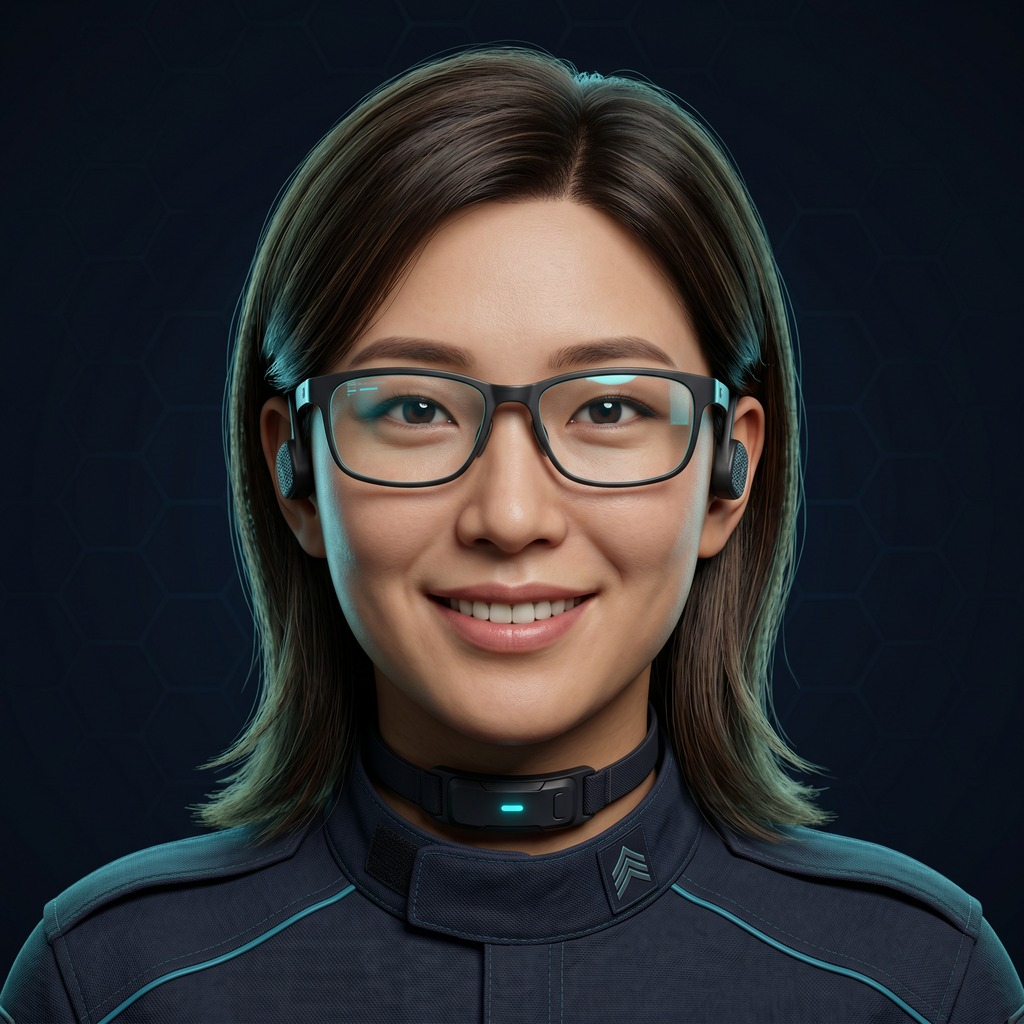
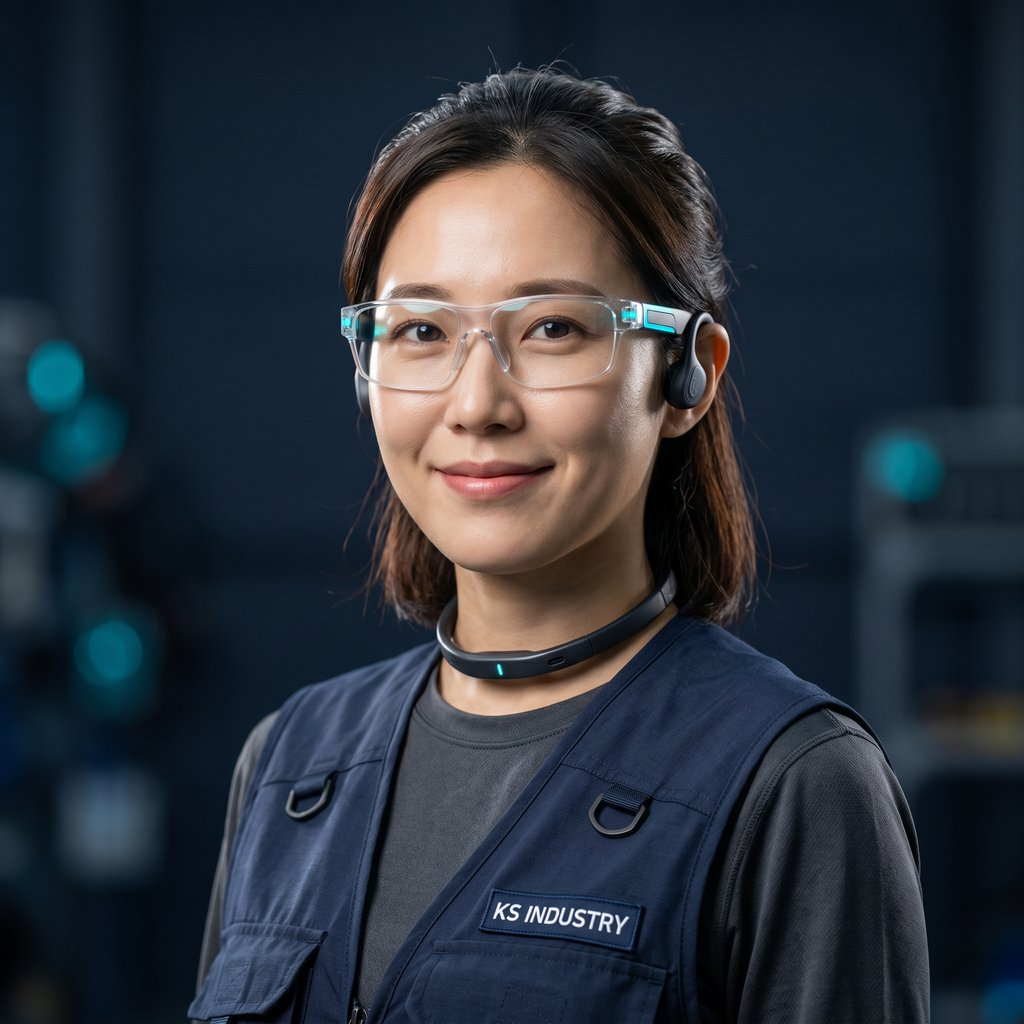
feat(hero): 플로팅 태그 세로 정렬, MRO 타이틀 + sLM 부제, 간격 확대, iframe 스케일, 아바타 v2
- 폰 화면을 가리던 4개 플로팅 태그(Voice+STT/Acoustic AI/Closed-Network/Agent Workflow)를
  데스크톱에서는 폰 좌측 세로 stack, 모바일/태블릿에서는 폰 아래 가로 chip 그리드로 재배치
- Hero H1 변경: '보고 듣고 판단하는 멀티모달 정비 에이전트' → 'MRO 에이전트' (5개 언어 일괄)
- Hero 부제 변경: DPVR 번들 카피 → '엣지 sLM AI 기술과 스마트 글래스 융합으로 MRO 현장의
  새로운 미래를 열어갑니다' (KO/EN/ZH/JA/DE 5개 언어 일괄)
- Hero 좌측 단락 간격 확대: mt-6→mt-10 (subtitle), mt-8→mt-12 (CTAs), mt-10→mt-12 (badges)
- 데모 iframe 비율 맞춤: 375x812 논리 viewport로 렌더 후 scale(0.778) 적용,
  320x640 폰 프레임에 모바일 데모 UI가 잘림 없이 정확히 들어맞도록 CSS 조정
  + 1024px / 380px 미만 브레이크포인트에서도 비례 스케일 (0.672 / 0.619)
- SentinAI 아바타 v2 재생성 (nano-banana-2, 2K):
  여성/남성 모두 KS INDUSTRY 자수 패치가 있는 네이비 택티컬 베스트 + 챠콜 테크 셔츠 착용,
  따뜻한 전문가 미소, 스마트 글래스/골전도 헤드폰/throat mic + 시안 LED 디테일 강화
  → 압축 후 public + dist 양쪽 배치 (여 113KB, 남 153KB)

Build: 196.23 kB · JS errors: 0 · 5-lang i18n verified · phone-frame iframe scaled OK

diff --git a/src/pages/home.tsx b/src/pages/home.tsx
@@ -121,13 +121,13 @@ export const HomePage = () => {
               <span data-i18n="hero.tag">KS INDUSTRY 3.0 · MARINE ROBOTICS LAB</span>
             </div>
             <h1 class="font-display text-3xl md:text-4xl lg:text-5xl font-bold leading-[1.05] tracking-tight">
-              <span class="text-white" data-i18n-html="hero.title">보고 듣고 판단하는<br/>멀티모달 정비 에이전트, <span class="text-gradient">SentinAI</span></span>
+              <span class="text-white" data-i18n-html="hero.title">보고 듣고 판단하는<br/>멀티모달 MRO 에이전트, <span class="text-gradient">SentinAI</span></span>
             </h1>
-            <p class="mt-6 max-w-2xl text-slate-200/90 text-base md:text-lg leading-relaxed" data-i18n="hero.subtitle">
-              Sentinel(파수꾼) + AI — DPVR 스마트 글래스 하드웨어 번들로 육·해·공군 정비창의 안전과 작업 효율을 극대화합니다.
+            <p class="mt-10 max-w-2xl text-slate-200/90 text-base md:text-lg leading-relaxed" data-i18n="hero.subtitle">
+              엣지 sLM AI 기술과 스마트 글래스 융합으로 MRO 현장의 새로운 미래를 열어갑니다.
             </p>
 
-            <div class="mt-8 flex flex-wrap gap-3">
+            <div class="mt-12 flex flex-wrap gap-3">
               <a href="#solutions" class="btn-primary rounded-full px-6 py-3 text-sm inline-flex items-center gap-2">
                 <i class="fa-solid fa-rocket"></i>
                 <span data-i18n="hero.cta_primary">SentinAI 솔루션 보기</span>
@@ -138,53 +138,71 @@ export const HomePage = () => {
               </button>
             </div>
 
-            <div class="mt-10 flex flex-wrap gap-2">
+            <div class="mt-12 flex flex-wrap gap-2">
               <span class="glass rounded-full px-3 py-1.5 text-xs text-slate-200" data-i18n="hero.badge1">울산정보산업진흥원 입주 · 2026.05</span>
               <span class="glass rounded-full px-3 py-1.5 text-xs text-slate-200" data-i18n="hero.badge2">해상크레인·조선기자재 30+ 년 노하우</span>
               <span class="glass rounded-full px-3 py-1.5 text-xs text-slate-200" data-i18n="hero.badge3">sLM · 엣지 AI · 폐쇄망 인증 트랙</span>
             </div>
           </div>
 
-          {/* Right: SentinAI Live Demo — Phone frame + iframe */}
+          {/* Right: SentinAI Live Demo — Feature tags (left column) + Phone frame */}
           <div class="lg:col-span-5 reveal">
-            <div class="relative mx-auto" style="max-width: 320px;">
-              {/* Glow background */}
-              <div class="absolute -inset-8 rounded-[3rem] bg-gradient-to-br from-ks-cyan/20 via-transparent to-ks-cyan/10 blur-2xl pointer-events-none"></div>
-              <div class="absolute -inset-4 rounded-[3rem] compass-ring opacity-20 blur-[1px] pointer-events-none"></div>
-
-              {/* Phone frame */}
-              <div class="relative phone-frame">
-                {/* Top notch */}
-                <div class="phone-notch"></div>
-                {/* Screen (iframe holder) */}
-                <div class="phone-screen">
-                  <iframe
-                    src="https://mil-mro-2opx.onrender.com/m/"
-                    title="SentinAI Live Demo"
-                    loading="lazy"
-                    class="w-full h-full bg-ks-deep"
-                    allow="accelerometer; autoplay; clipboard-write; encrypted-media; gyroscope; microphone"
-                    referrerpolicy="no-referrer-when-downgrade"
-                  ></iframe>
+            <div class="flex items-center justify-center gap-4 lg:gap-5">
+              {/* Left: Feature tag vertical stack (desktop only) */}
+              <div class="hidden lg:flex flex-col gap-3 shrink-0">
+                <div class="glass rounded-xl px-3 py-2 text-xs text-ks-cyan-soft flex items-center gap-2 shadow-lg whitespace-nowrap">
+                  <i class="fa-solid fa-microphone-lines text-ks-cyan"></i> Voice + STT
                 </div>
-                {/* Side button accents */}
-                <div class="phone-side-btn phone-btn-power"></div>
-                <div class="phone-side-btn phone-btn-vol-up"></div>
-                <div class="phone-side-btn phone-btn-vol-dn"></div>
+                <div class="glass rounded-xl px-3 py-2 text-xs text-ks-cyan-soft flex items-center gap-2 shadow-lg whitespace-nowrap">
+                  <i class="fa-solid fa-wave-square text-ks-cyan"></i> Acoustic AI
+                </div>
+                <div class="glass rounded-xl px-3 py-2 text-xs text-ks-cyan-soft flex items-center gap-2 shadow-lg whitespace-nowrap">
+                  <i class="fa-solid fa-shield-halved text-ks-cyan"></i> Closed-Network
+                </div>
+                <div class="glass rounded-xl px-3 py-2 text-xs text-ks-cyan-soft flex items-center gap-2 shadow-lg whitespace-nowrap">
+                  <i class="fa-solid fa-robot text-ks-cyan"></i> Agent Workflow
+                </div>
               </div>
 
-              {/* Floating feature tags */}
-              <div class="absolute -left-10 top-16 glass rounded-xl px-3 py-2 text-xs text-ks-cyan-soft hidden lg:flex items-center gap-2 shadow-lg">
-                <i class="fa-solid fa-microphone-lines"></i> Voice + STT
+              {/* Right: Phone frame */}
+              <div class="relative" style="max-width: 320px;">
+                {/* Glow background */}
+                <div class="absolute -inset-8 rounded-[3rem] bg-gradient-to-br from-ks-cyan/20 via-transparent to-ks-cyan/10 blur-2xl pointer-events-none"></div>
+                <div class="absolute -inset-4 rounded-[3rem] compass-ring opacity-20 blur-[1px] pointer-events-none"></div>
+
+                {/* Phone frame */}
+                <div class="relative phone-frame">
+                  <div class="phone-notch"></div>
+                  <div class="phone-screen">
+                    <iframe
+                      src="https://mil-mro-2opx.onrender.com/m/"
+                      title="SentinAI Live Demo"
+                      loading="lazy"
+                      class="phone-iframe bg-ks-deep"
+                      allow="accelerometer; autoplay; clipboard-write; encrypted-media; gyroscope; microphone"
+                      referrerpolicy="no-referrer-when-downgrade"
+                    ></iframe>
+                  </div>
+                  <div class="phone-side-btn phone-btn-power"></div>
+                  <div class="phone-side-btn phone-btn-vol-up"></div>
+                  <div class="phone-side-btn phone-btn-vol-dn"></div>
+                </div>
               </div>
-              <div class="absolute -right-10 top-1/3 glass rounded-xl px-3 py-2 text-xs text-ks-cyan-soft hidden lg:flex items-center gap-2 shadow-lg">
-                <i class="fa-solid fa-wave-square"></i> Acoustic AI
+            </div>
+
+            {/* Mobile/Tablet: horizontal scrolling feature chips (below phone) */}
+            <div class="mt-5 flex flex-wrap justify-center gap-2 lg:hidden">
+              <div class="glass rounded-full px-3 py-1.5 text-[11px] text-ks-cyan-soft flex items-center gap-1.5">
+                <i class="fa-solid fa-microphone-lines text-ks-cyan"></i> Voice + STT
               </div>
-              <div class="absolute -left-8 bottom-24 glass rounded-xl px-3 py-2 text-xs text-ks-cyan-soft hidden lg:flex items-center gap-2 shadow-lg">
-                <i class="fa-solid fa-shield-halved"></i> Closed-Network
+              <div class="glass rounded-full px-3 py-1.5 text-[11px] text-ks-cyan-soft flex items-center gap-1.5">
+                <i class="fa-solid fa-wave-square text-ks-cyan"></i> Acoustic AI
               </div>
-              <div class="absolute -right-12 bottom-12 glass rounded-xl px-3 py-2 text-xs text-ks-cyan-soft hidden lg:flex items-center gap-2 shadow-lg">
-                <i class="fa-solid fa-robot"></i> Agent Workflow
+              <div class="glass rounded-full px-3 py-1.5 text-[11px] text-ks-cyan-soft flex items-center gap-1.5">
+                <i class="fa-solid fa-shield-halved text-ks-cyan"></i> Closed-Network
+              </div>
+              <div class="glass rounded-full px-3 py-1.5 text-[11px] text-ks-cyan-soft flex items-center gap-1.5">
+                <i class="fa-solid fa-robot text-ks-cyan"></i> Agent Workflow
               </div>
             </div>
 

diff --git a/src/i18n.ts b/src/i18n.ts
@@ -27,8 +27,8 @@ export const I18N: Record<Lang, Record<string, string>> = {
     'nav.lang': '언어',
 
     'hero.tag': 'KS INDUSTRY 3.0 · MARINE ROBOTICS LAB',
-    'hero.title': '보고 듣고 판단하는<br/>멀티모달 정비 에이전트, <span class="text-gradient">SentinAI</span>',
-    'hero.subtitle': 'Sentinel(파수꾼) + AI — DPVR 스마트 글래스 하드웨어 번들로 육·해·공군 정비창의 안전과 작업 효율을 극대화합니다.',
+    'hero.title': '보고 듣고 판단하는<br/>멀티모달 MRO 에이전트, <span class="text-gradient">SentinAI</span>',
+    'hero.subtitle': '엣지 sLM AI 기술과 스마트 글래스 융합으로 MRO 현장의 새로운 미래를 열어갑니다.',
     'hero.cta_primary': 'SentinAI 솔루션 보기',
     'hero.cta_secondary': 'SentinAI와 대화하기',
     'hero.badge1': '울산정보산업진흥원 입주 · 2026.05',
@@ -311,8 +311,8 @@ export const I18N: Record<Lang, Record<string, string>> = {
     'nav.lang': 'Language',
 
     'hero.tag': 'KS INDUSTRY 3.0 · MARINE ROBOTICS LAB',
-    'hero.title': 'A Multimodal<br/>Maintenance Agent.<br/><span class="text-gradient">SentinAI.</span>',
-    'hero.subtitle': 'Sentinel + AI — bundled with custom DPVR smart glasses, SentinAI maximizes mechanic safety and work efficiency across Army, Navy and Air Force depots.',
+    'hero.title': 'A Multimodal<br/>MRO Agent.<br/><span class="text-gradient">SentinAI.</span>',
+    'hero.subtitle': 'Fusing edge sLM AI with smart glasses to open a new future for the MRO field.',
     'hero.cta_primary': 'Explore SentinAI',
     'hero.cta_secondary': 'Chat with SentinAI',
     'hero.badge1': 'Resident at Ulsan IPA · May 2026',
@@ -589,8 +589,8 @@ export const I18N: Record<Lang, Record<string, string>> = {
     'nav.lang': '语言',
 
     'hero.tag': 'KS INDUSTRY 3.0 · 海洋机器人研究所',
-    'hero.title': '能看、能听、能判断的<br/>多模态维护智能体<br/><span class="text-gradient">SentinAI</span>',
-    'hero.subtitle': 'Sentinel(哨兵)+ AI — 搭配定制 DPVR 智能眼镜硬件包，最大化陆海空三军维修厂的安全与作业效率。',
+    'hero.title': '能看、能听、能判断的<br/>多模态 MRO 智能体<br/><span class="text-gradient">SentinAI</span>',
+    'hero.subtitle': '边缘 sLM AI 与智能眼镜深度融合，开启 MRO 现场全新未来。',
     'hero.cta_primary': '查看 SentinAI 方案',
     'hero.cta_secondary': '与 SentinAI 对话',
     'hero.badge1': '蔚山信息产业振兴院入驻 · 2026年5月',
@@ -868,8 +868,8 @@ export const I18N: Record<Lang, Record<string, string>> = {
     'nav.lang': '言語',
 
     'hero.tag': 'KS INDUSTRY 3.0 · マリンロボティクス研究所',
-    'hero.title': '見て・聴いて・判断する<br/>マルチモーダル整備エージェント<br/><span class="text-gradient">SentinAI</span>',
-    'hero.subtitle': 'Sentinel(歩哨)+ AI — カスタム DPVR スマートグラスとバンドルし、陸・海・空 整備廠の安全と作業効率を最大化します。',
+    'hero.title': '見て・聴いて・判断する<br/>マルチモーダル MRO エージェント<br/><span class="text-gradient">SentinAI</span>',
+    'hero.subtitle': 'エッジ sLM AI 技術とスマートグラスの融合で、MRO 現場の新しい未来を切り拓きます。',
     'hero.cta_primary': 'SentinAI を見る',
     'hero.cta_secondary': 'SentinAI と話す',
     'hero.badge1': '蔚山情報産業振興院入居 · 2026年5月',
@@ -1145,8 +1145,8 @@ export const I18N: Record<Lang, Record<string, string>> = {
     'nav.lang': 'Sprache',
 
     'hero.tag': 'KS INDUSTRY 3.0 · MARINE ROBOTICS LAB',
-    'hero.title': 'Ein multimodaler<br/>Wartungs-Agent.<br/><span class="text-gradient">SentinAI.</span>',
-    'hero.subtitle': 'Sentinel + KI — gebündelt mit speziell angepassten DPVR-Smart-Glasses maximiert SentinAI die Sicherheit und Effizienz in Heer-, Marine- und Luftwaffen-Depots.',
+    'hero.title': 'Ein multimodaler<br/>MRO-Agent.<br/><span class="text-gradient">SentinAI.</span>',
+    'hero.subtitle': 'Edge-sLM-KI verschmilzt mit Smart Glasses und eröffnet eine neue Zukunft für die MRO-Praxis.',
     'hero.cta_primary': 'SentinAI entdecken',
     'hero.cta_secondary': 'Mit SentinAI chatten',
     'hero.badge1': 'Eröffnung im Ulsan IPA · Mai 2026',

diff --git a/public/static/style.css b/public/static/style.css
@@ -314,11 +314,32 @@ html, body { overflow-x: hidden; }
   background: #000;
   border: 1px solid rgba(0, 212, 255, 0.15);
 }
-.phone-screen iframe {
+.phone-screen iframe,
+.phone-iframe {
   display: block;
   border: 0;
   width: 100%;
   height: 100%;
+  /* The mil-mro /m/ demo is built for ~375x812 viewports.
+     Render the iframe at that logical size and scale it down so the entire
+     mobile UI fits inside the 292x612 visible screen area without crop. */
+  width: 375px;
+  height: 812px;
+  transform-origin: top left;
+  transform: scale(0.778);
+}
+/* Scale phone iframe content for tablet sizing (280x560 frame ⇒ 252x532 screen) */
+@media (max-width: 1024px) {
+  .phone-screen iframe,
+  .phone-iframe {
+    transform: scale(0.672);
+  }
+}
+@media (max-width: 380px) {
+  .phone-screen iframe,
+  .phone-iframe {
+    transform: scale(0.619);
+  }
 }
 
 .phone-side-btn {
